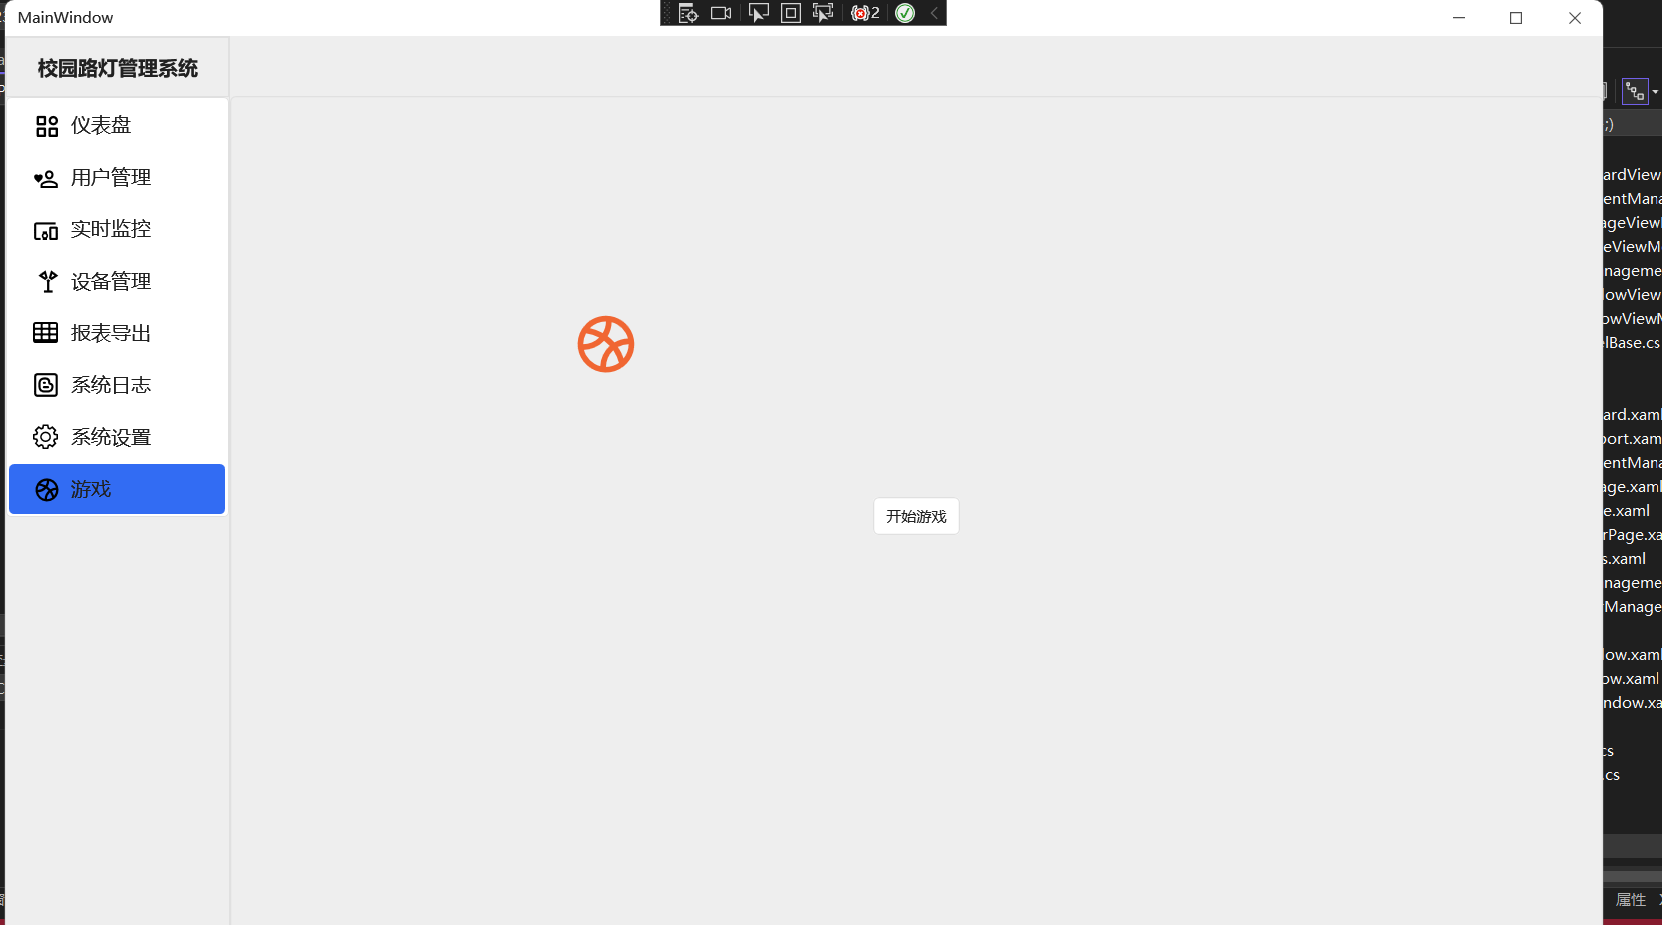
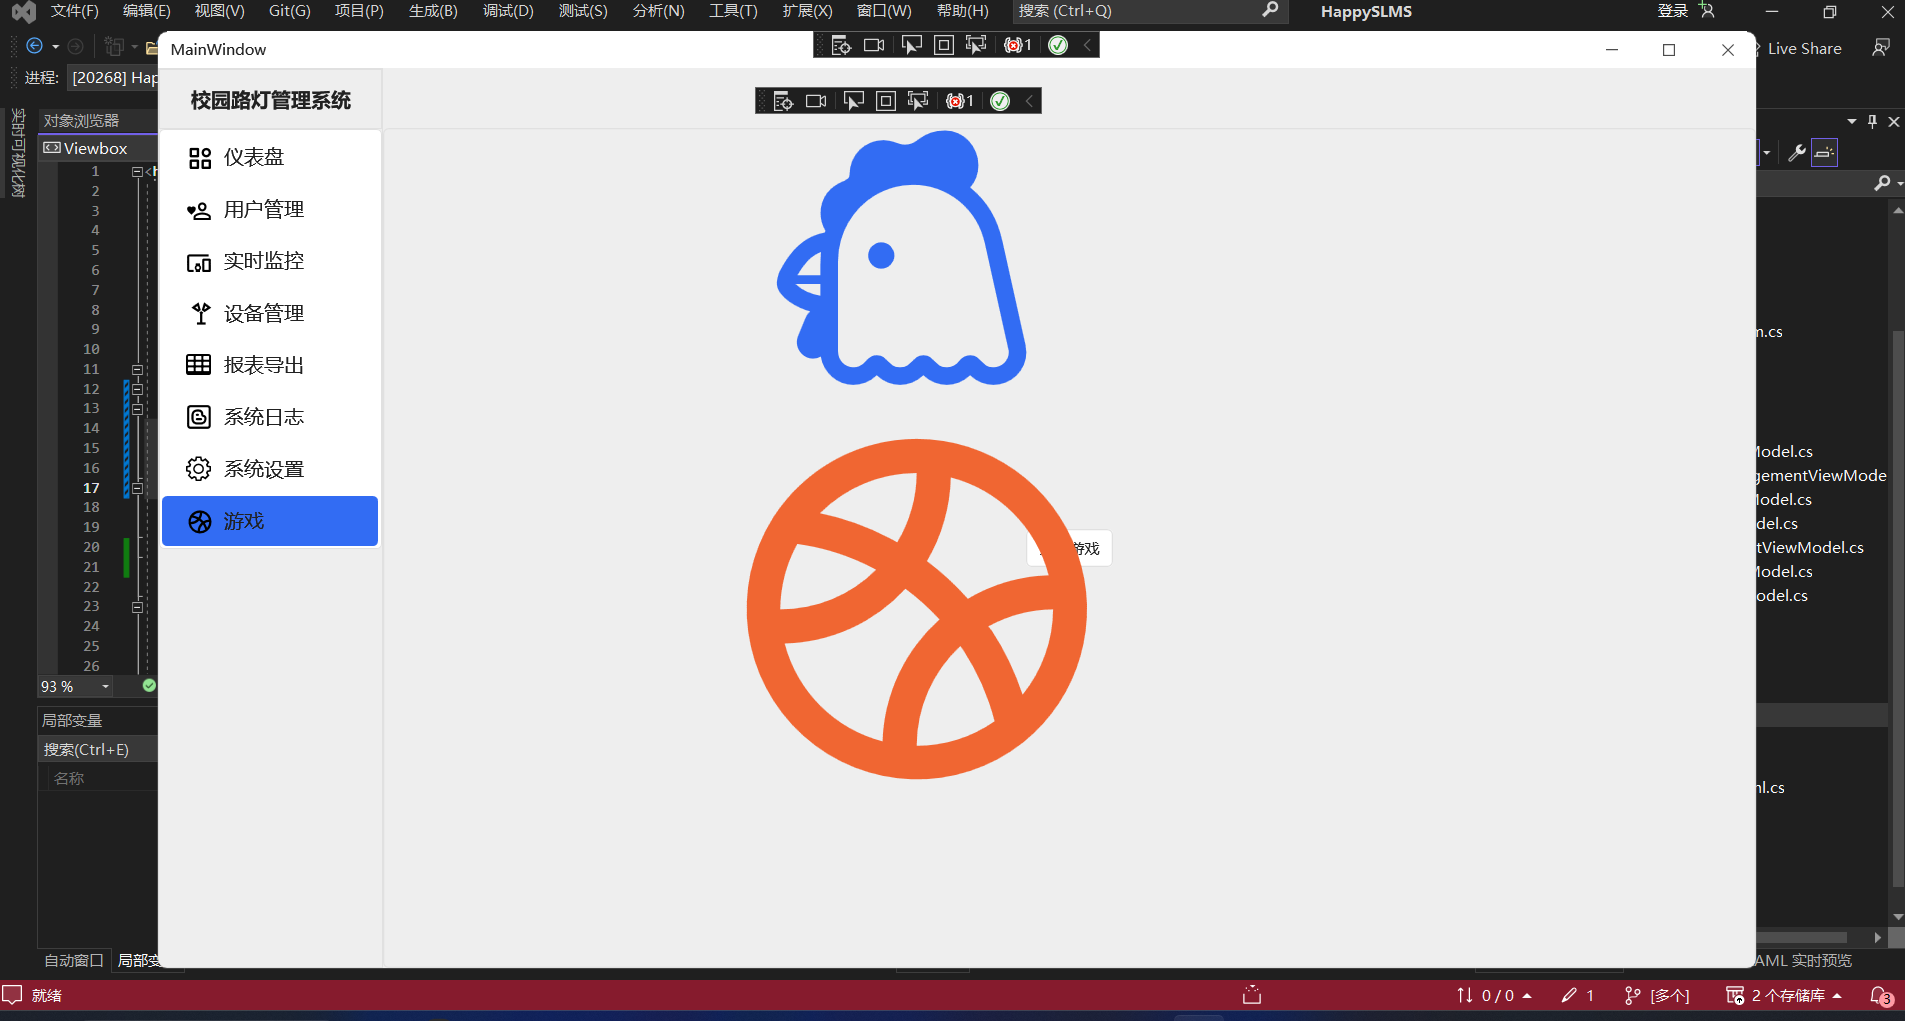
dasd

Changed region(s): [[0.0, 0.0, 1.0, 1.0], [0.3682, 0.4238, 0.583, 0.787]]

diff --git a/Src/HappySLMS.Wpf/Views/Sprites/GameSprite.xaml b/Src/HappySLMS.Wpf/Views/Sprites/GameSprite.xaml
@@ -9,9 +9,16 @@
     Background="Transparent"
     mc:Ignorable="d">
     <Border x:Name="border">
-        <Viewbox Width="50" Height="50">
-            <Path Data="{StaticResource GamePage}" Fill="#f06632" />
-        </Viewbox>
+        <StackPanel Orientation="Vertical">
+            <TextBlock
+                FontSize="200"
+                Style="{StaticResource TextBlockDefaultPrimary}"
+                Text="🐔" />
+            <Viewbox Width="300" Height="300">
+                <Path Data="{StaticResource GamePage}" Fill="#f06632" />
+            </Viewbox>
+        </StackPanel>
+
     </Border>
     <Button
         Width="22"
